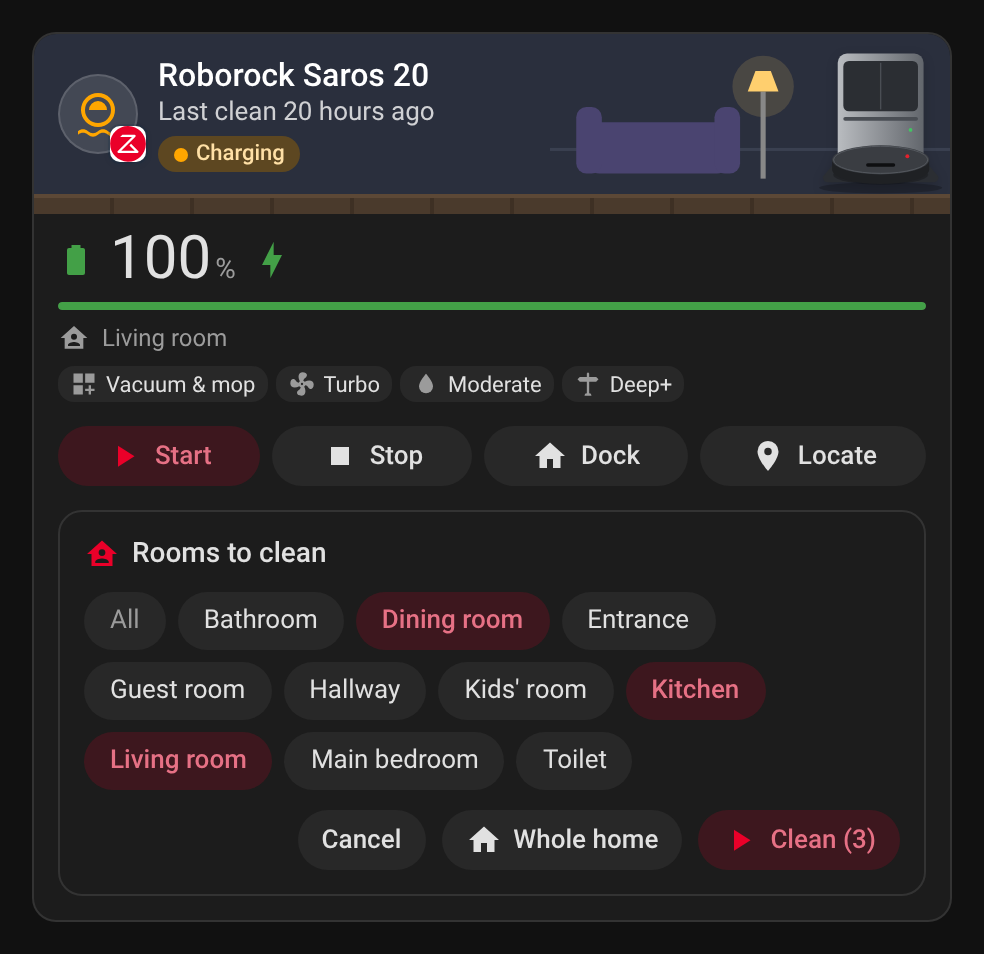
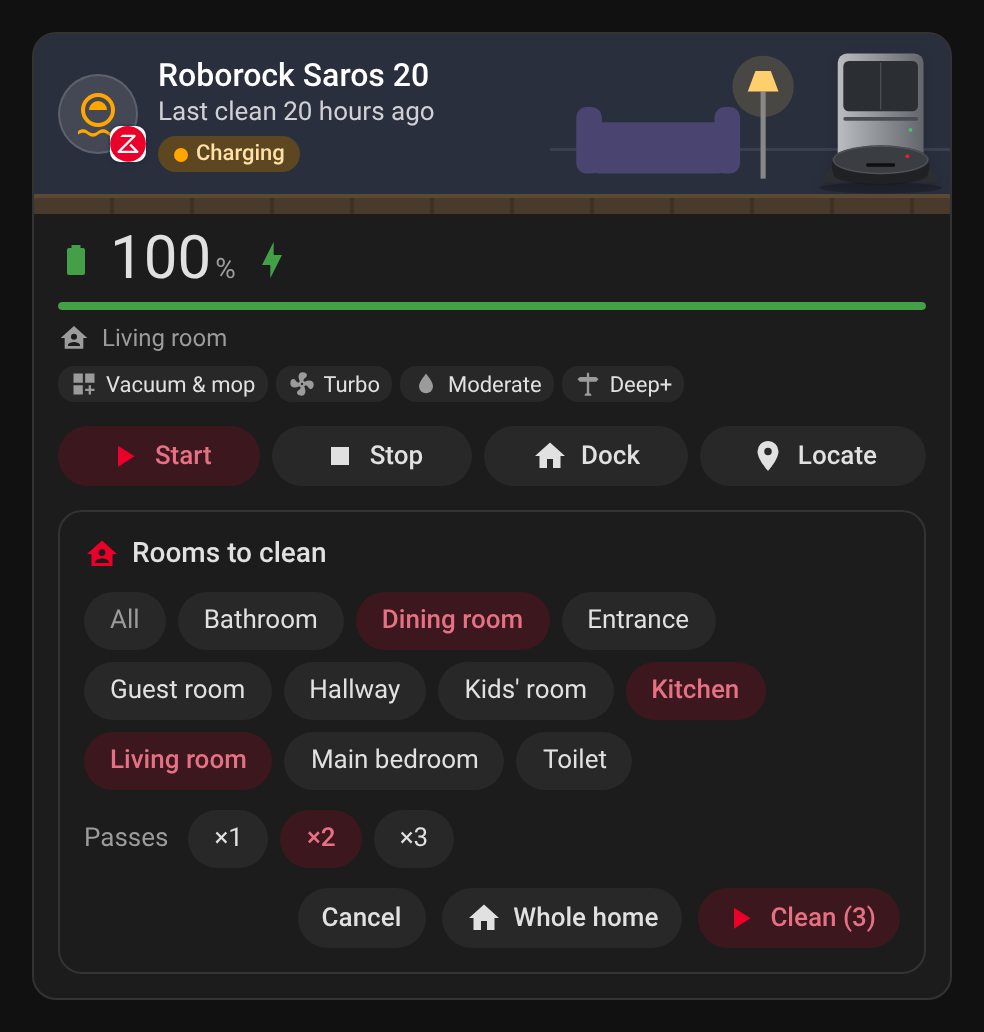
fix: whole home passes and room selector screenshots (2.17.1) (#111)
Follow-up to #110 (merged before the Screenshots workflow ran), with the review fixes.

- **Whole home** with ×2 or ×3 cleans every room of the list with that number of passes (it ran a single full cleaning whatever the passes shown); ×1 still starts the robot's own full cleaning
- The passes buttons are a UI setting: no longer blocked while the robot is offline (like the room buttons)
- The passes buttons carry their own `data-passes` attribute instead of reusing `data-room`
- Dutch: "Doorgangen"
- Tests: reset to ×1 on reopening, out-of-list value ignored, no passes row for a Roborock robot on Xiaomi Miio, whole home with passes
- The room selector screenshots (`card-rooms`, light and dark) show ×2 selected

https://claude.ai/code/session_01F4sAn1aRywG5xNhpuvKwkp

---
_Generated by [Claude Code](https://claude.ai/code)_

diff --git a/src/base.js b/src/base.js
@@ -450,7 +450,7 @@ export class VacuumBase extends HTMLElement {
     // No command to a vacuum that cannot take it (its buttons are drawn disabled; this also covers a click that
     // reaches a button before the card re-renders).
     if ((VACUUM_ACTIONS.has(action) || (action === "routine" && this._dev?.vacuum)) && this._offline(this._dev)) return;
-    if (this._roomAction(action, entity, el.dataset.room)) return;
+    if (this._roomAction(action, entity, el.dataset.passes ?? el.dataset.room)) return;
     if (action === "zoom_map") return this._zoomMap(entity);
     if (action === "zoom_vector") return this._vectorMap?.openFullscreen?.();
     if (action === "zoom") return this._toggleZoom(ev);
@@ -843,15 +843,21 @@ export class VacuumBase extends HTMLElement {
         return true;
       case "clean_rooms":
         if (!r?.selected.length || !ROOM_ADAPTERS[this._dev?.platform]) return true;
-        this._call(...ROOM_ADAPTERS[this._dev.platform].clean(entity, r.selected.map(Number), r.passes || 1));
+        this._call(...ROOM_ADAPTERS[this._dev.platform].clean(entity, r.selected.map(Number), r.passes));
         this._rooms = null;
         this._update();
         return true;
-      case "clean_all":
-        this._call("vacuum", "start", { entity_id: entity });
+      case "clean_all": {
+        // More than one pass: every room of the list is cleaned with that number of passes (a full cleaning has no
+        // number of passes); otherwise the robot's own full cleaning.
+        const adapter = ROOM_ADAPTERS[this._dev?.platform];
+        if (adapter?.passes && r?.passes > 1 && r.list?.length)
+          this._call(...adapter.clean(entity, r.list.map((x) => Number(x.id)), r.passes));
+        else this._call("vacuum", "start", { entity_id: entity });
         this._rooms = null;
         this._update();
         return true;
+      }
       default:
         return false;
     }
@@ -916,7 +922,7 @@ export class VacuumBase extends HTMLElement {
       <span class="passes-label">${esc(this._t("passes"))}</span>
       ${ROOM_PASSES.map(
         (n) =>
-          `<button class="room ${r.passes === n ? "on" : ""}" data-action="set_passes" data-entity="${esc(dev.vacuum)}" data-room="${n}" aria-pressed="${r.passes === n}">×${n}</button>`
+          `<button class="room ${r.passes === n ? "on" : ""}" data-action="set_passes" data-entity="${esc(dev.vacuum)}" data-passes="${n}" aria-pressed="${r.passes === n}">×${n}</button>`
       ).join("")}
     </div>`;
   }

diff --git a/src/actions.js b/src/actions.js
@@ -48,7 +48,7 @@ export const ZOOM_KEY = "#zoom";
 export const VACUUM_FEATURES = { pause: 4, stop: 8, return_home: 16, locate: 512 };
 
 // Clicks that send a command to the vacuum (or open the room list to send one).
-export const VACUUM_ACTIONS = new Set(["start", "open_rooms", "pause", "stop", "return_to_base", "locate", "clean_rooms", "clean_all", "set_passes"]);
+export const VACUUM_ACTIONS = new Set(["start", "open_rooms", "pause", "stop", "return_to_base", "locate", "clean_rooms", "clean_all"]);
 
 // Elements a click acts on, and how one is told from the others across renders (see _focusedSpot).
 export const FOCUS_SELECTOR = "[data-action], [data-entity]";

diff --git a/src/i18n/nl.js b/src/i18n/nl.js
@@ -20,7 +20,7 @@ export default {
   clean_rooms: "Reinigen ({n})",
   whole_home: "Hele huis",
   select_all: "Alle",
-  passes: "Passes",
+  passes: "Doorgangen",
   cancel: "Annuleren",
   rooms_loading: "Kamers laden…",
   rooms_error: "Kan de kamers niet van de robot ophalen.",

diff --git a/README.md b/README.md
@@ -467,7 +467,7 @@ The Start button opens a list of rooms to clean (or **Whole home**) when the int
 | Dreame Vacuum | the vacuum's `rooms` attribute (current map, `selected_map`) | `dreame_vacuum.vacuum_clean_segment` |
 | Xiaomi Miio | the `rooms` option only (the integration cannot list them) | `xiaomi_miio.vacuum_clean_segment` |
 
-With Roborock and Dreame Vacuum, a **Passes** row (×1, ×2, ×3) sets how many times the selected rooms are cleaned, like in the robot's app: it is sent as `repeat` (Roborock `app_segment_clean`) or `repeats` (`dreame_vacuum.vacuum_clean_segment`), and only above ×1. Xiaomi Miio's segment cleaning has no number of passes, and **Whole home** always runs the robot's own setting.
+With Roborock and Dreame Vacuum, a **Passes** row (×1, ×2, ×3) sets how many times the selected rooms are cleaned, like in the robot's app: it is sent as `repeat` (Roborock `app_segment_clean`) or `repeats` (`dreame_vacuum.vacuum_clean_segment`), and only above ×1. With ×2 or ×3, **Whole home** cleans every room of the list with that number of passes; with ×1 it starts the robot's own full cleaning. Xiaomi Miio's segment cleaning has no number of passes.
 
 The segment ids of a Xiaomi Miio robot can be read with [Xiaomi Cloud Map Extractor](https://github.com/PiotrMachowski/Home-Assistant-custom-components-Xiaomi-Cloud-Map-Extractor) (`rooms` attribute of its camera) or found by trying `xiaomi_miio.vacuum_clean_segment` from the developer tools:
 

diff --git a/CHANGELOG.md b/CHANGELOG.md
@@ -1,5 +1,13 @@
 # Changelog
 
+## 2.17.1 - 2026-11-24
+
+### Fixes
+- Room selector: **Whole home** with ×2 or ×3 now cleans every room of the list with that number of passes (it ran a single full cleaning before, whatever the passes shown); ×1 still starts the robot's own full cleaning.
+- Room selector: the passes buttons can be used while the robot is offline, like the room buttons (only the cleaning buttons are blocked).
+- Room selector: the passes buttons carry their own `data-passes` attribute instead of reusing `data-room`, so they can never be mistaken for a room; the room selector screenshots show ×2 selected.
+- Dutch: "Doorgangen" for the passes row.
+
 ## 2.17.0 - 2026-11-24
 
 ### Features
